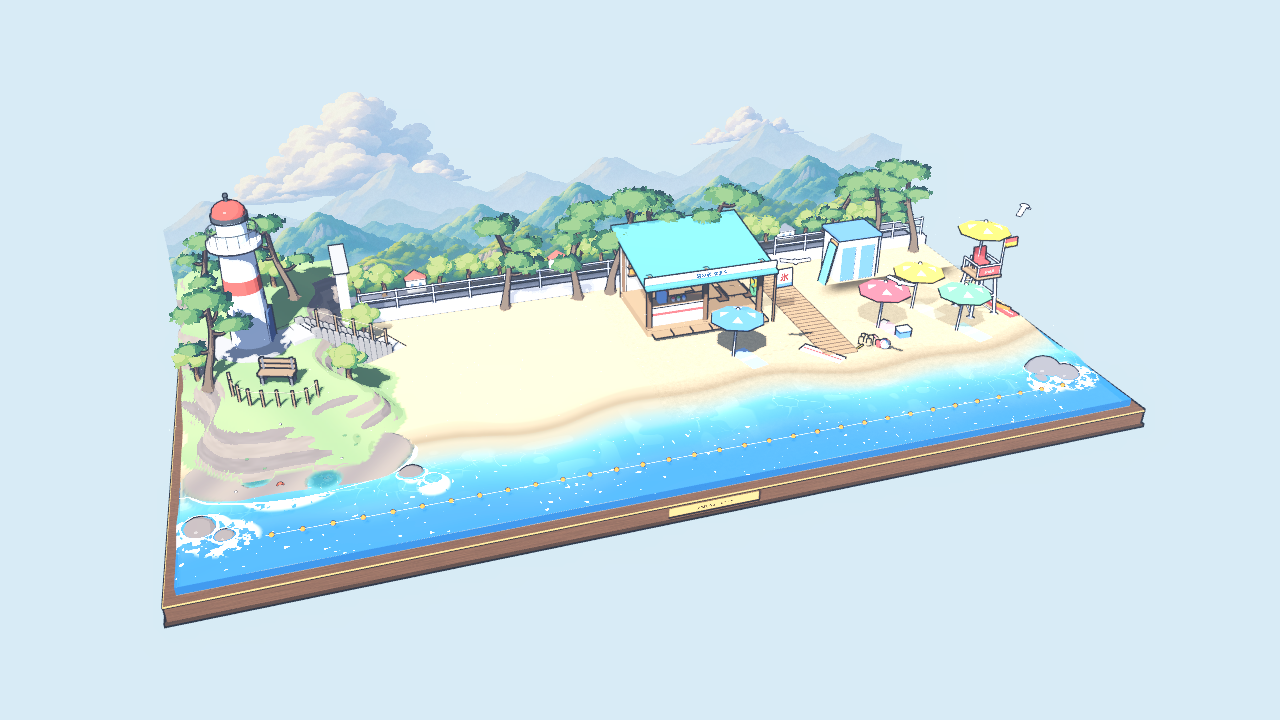
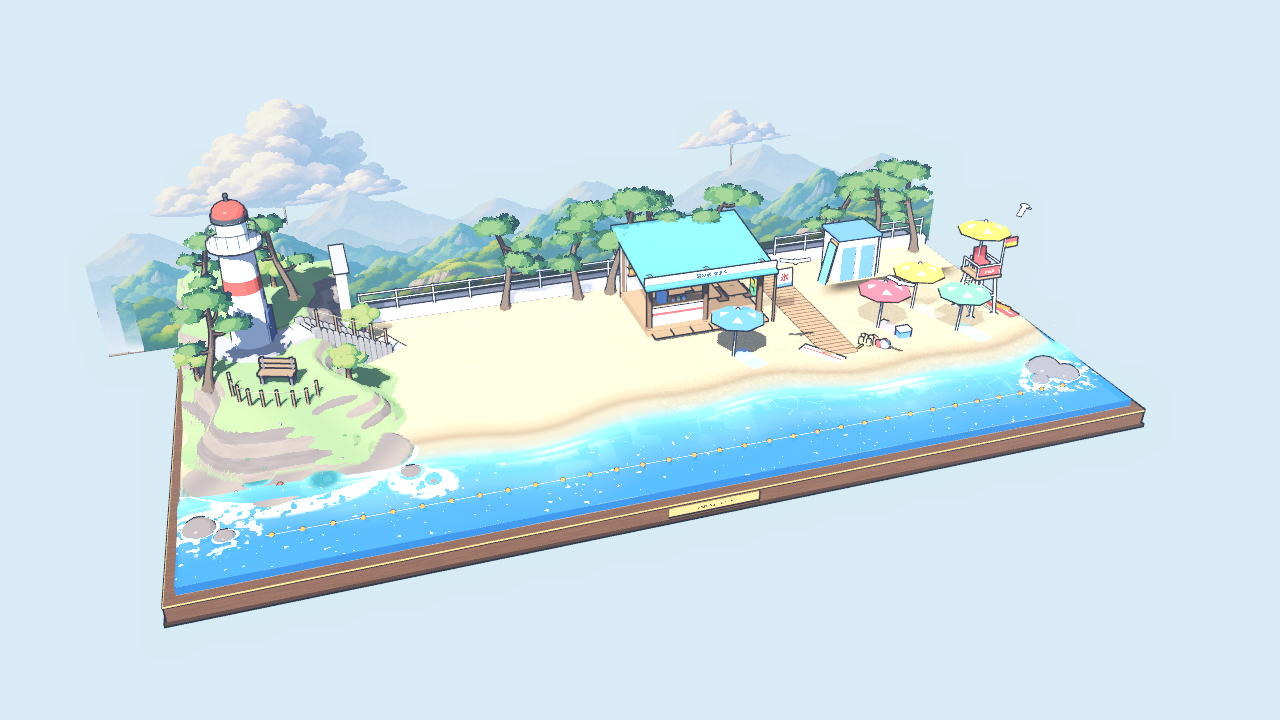
Backscene: layers farther apart and scaled to match, no low-relief row
The flats now stand metres apart behind the plinth (hills 0.4 m, mountains
3.2 m, far peaks 7 m, clouds 9-10 m), each scaled by its distance from the
opening camera and lowered along its line of sight, so the opening view
is unchanged while orbiting shows real parallax between the layers. They
stand on slim foot rails with braces, clouds on rods. The shelf and the
row of low-relief trees and house fronts are gone: with the painted hills
fading into mist they only showed as a strip from above.

Claude-Session: https://claude.ai/code/session_01JuNQs8VxyuqxoqKQNTs1C5

diff --git a/docs/konbini-diorama/README.md b/docs/konbini-diorama/README.md
@@ -82,7 +82,7 @@
 - ไม่มีรอยต่อ ถนน กำแพง และราวกั้นวางยาวชิ้นเดียวตั้งแต่ปากอุโมงค์ถึงปลายหาด ทะเลกับน้ำซัดหาดเป็นผิวเดียวคลุมทั้งสองครึ่ง แนวน้ำและจังหวะคลื่นเดียวกัน หน้าตัดตรงรอยต่อถูกตัดออก แนวทุ่นเขตว่ายน้ำเป็นเส้นเดียวยาวต่อเนื่องจากหน้าแหลมถึงปลายหาด
 - แต่ละบล็อกยังสร้างด้วยโค้ดเดิมในพิกัดของตัวเอง (โหมด `joined`) ใต้โหนดที่เลื่อนไปครึ่งของมัน บล็อกเดี่ยวยังเปิดแยกได้เหมือนเดิม
 - กล้องเลื่อนและซูมออกได้ไกลขึ้นให้พอกับความยาว
-- ฉากหลังหลอกตา (`scripts/konbini_backdrop.gd`, `shaders/konbini_flat.gdshader`): แผ่นบางๆ ทาสีตั้งเรียงกันบนชั้นที่ต่อออกไปด้านหลังฐาน ทำตามวิธีของฉากหลังโมเดลรถไฟ ฉากหลังอนิเมะ และเกมสไตล์การ์ตูน: มีไม่กี่ชั้น แต่ละชั้นเป็นเงาภูเขาเรียบๆ ใช้แค่สองโทน ยิ่งไกลยิ่งคอนทราสต์ต่ำและกลืนเข้าสีฟ้า มีหมอกสว่างที่ตีนเขาแต่ละชั้นแยกชั้นออกจากกัน ไกลไม่มีเส้นขอบ ลงสีแบบภาพวาดมือ (ลายพู่กันตามแนวลาด ขอบแสงเงาแบบพู่กันแห้ง สันเขาขอบไม่เรียบ หมอกเป็นปื้นพู่กัน และลายกระดาษ) เมฆหน้าร้อนห้อยบนก้าน และแถวต้นไม้จริงกับหน้าบ้านแบบนูนต่ำวางหน้าแผ่นเพื่อซ่อนรอยต่อจาก 3 มิติไป 2 มิติ มองจากด้านข้างจะเห็นว่าเป็นแค่แผ่นไม้อัดมีขาค้ำ ถ้าวางภาพ PNG ที่วาดมาใน `assets/backdrop/` (ชื่อไฟล์และวิธีสั่ง ChatGPT วาดอยู่ใน [chatgpt-backdrop-brief.md](chatgpt-backdrop-brief.md)) เกมจะใช้ภาพนั้นแทนชั้นที่โค้ดวาด
+- ฉากหลังหลอกตา (`scripts/konbini_backdrop.gd`, `shaders/konbini_flat.gdshader`): แผ่นบางๆ ตั้งบนขาค้ำเรียงกันด้านหลังฐาน ใช้ภาพวาดจาก ChatGPT ใน `assets/backdrop/` (เนินป่า ภูเขากลาง ยอดเขาไกล เมฆสองก้อน) แต่ละชั้นห่างกันจริงหลายเมตรและขยายตามระยะ จากมุมหลักจึงดูเหมือนเดิม แต่เวลาหมุนกล้องชั้นต่างๆ เลื่อนต่างกันจนรู้สึกลึก มองจากด้านข้างจะเห็นว่าเป็นแค่แผ่นบางๆ บนขาค้ำ วิธีสั่งวาดภาพอยู่ใน [chatgpt-backdrop-brief.md](chatgpt-backdrop-brief.md)
 
 ![ทั้งชายฝั่ง](coast-view-1.png)
 ![รอยต่อระหว่างแหลมกับหาด](coast-view-4.png)

diff --git a/.claude/skills/godot-diorama-scene/references/atmosphere.md b/.claude/skills/godot-diorama-scene/references/atmosphere.md
@@ -108,3 +108,11 @@ images came with a lot of empty sky above the land, so trim the transparent top 
 range so its edges still join; trim clouds on all sides), and let the code take the number of repeats and
 a cloud's height from the image's proportions instead of fixed numbers. Painted mountains stand taller than
 the shader ones did, so check the clouds still clear them.
+
+Spacing the flats: the user asked for the layers to stand farther back and larger. Move a flat back by dz
+and scale it by (D + dz) / D, D being its old distance from the opening camera; also lower its foot along
+the line of sight, y = eye_y + (y_old - eye_y) * scale, or with a downward-looking camera the far layers
+float up as separate strips. From the opening view the picture stays the same, and orbiting now shows real
+parallax between the layers. The coast uses 0.4 / 3.2 / 7 m (hills / mountains / far peaks) and 9-10 m for
+the clouds. The row of low-relief trees and house fronts that hid the join was removed: the user asked
+what it was for, and with painted hills that fade into mist it only showed as a strip from above.
